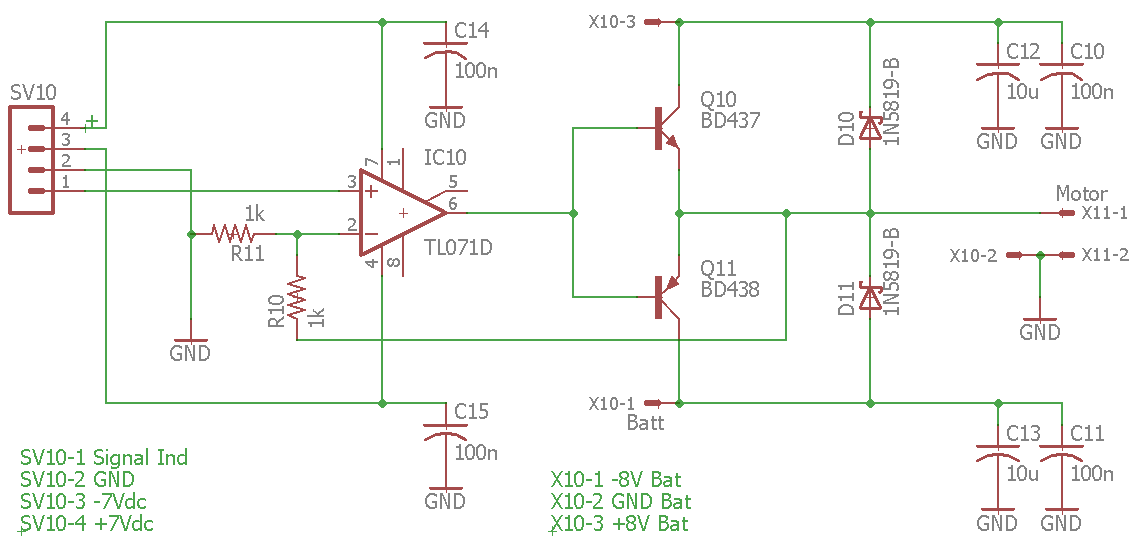
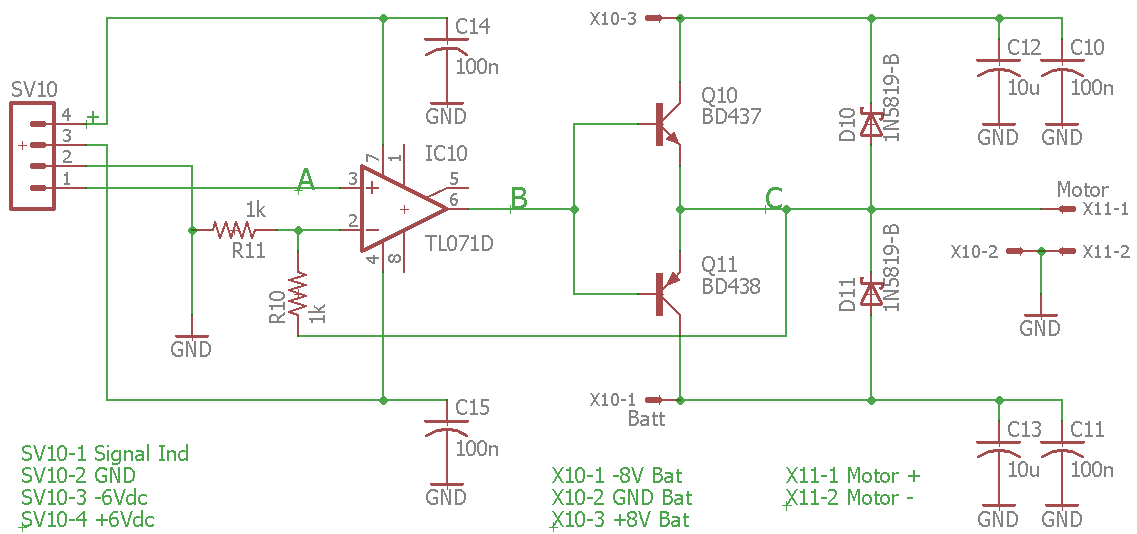
Motorstyring beskrevet færdigt.

diff --git a/section/motorstyring.tex b/section/motorstyring.tex
@@ -15,6 +15,7 @@ I figur \ref{fig:motor_diagram} ses det samlede kredsløb af motorreguleringen.
 I motorstyringen anvendes en simpel feedback regulering af strømmen igennem en NPN \emph{(Q10)} og PNP \emph{(Q11)} transistor, således at forholdet mellem indgangssignalet og udgangsstrømmen til motoren holdes konstant.
 Motorstyringen er opbygget som en såkaldt \textit{ Bi-directional DC motor driver} som gør det muligt at styre retningen af strømmen igennem motoren.
 Således vil et positivt styresignal åbne for strømmen fra $+8V Batt$ igennem NPN transistoren \emph{(Q10)} ud til motoren, og et negativt styresignal vil åbne for strømmen fra $GND$ igennem PNP transistoren \emph{(Q11)} til $-8V Batt$, se figur \ref{fig:motor_bidirectional}.
+\husk{JJ}{BJT valg, ref til datablad, og vigtige data som ligger til gunde for valg}
 
 \begin{figure}[h!]
 	\centering
@@ -24,16 +25,32 @@ Således vil et positivt styresignal åbne for strømmen fra $+8V Batt$ igennem 
 \end{figure}
 \FloatBlock
 
-For at håndtere de transiente spændings udslag der måtte komme fra motor, idet den som spole er en induktiv belastning på udgangen, er der i kredsløbet anbragt to såkalde \textit{flyback} eller friløbs dioder \emph{(D10)} og \emph{(D11)}.
-Det er valgt at bruge en \textit{Schottky} \emph{1N5819} diode, da denne har et lavere spændingsfald og en hurtigere \textit{reverse recovery}.
-
+For at håndtere de transiente spændingsudslag der måtte komme fra motor, idet den som spole er en induktiv belastning på udgangen.
+Er der i kredsløbet anbragt to såkaldte \textit{flyback} eller friløbs dioder \emph{(D10)} og \emph{(D11)}.
+Det er valgt at bruge en \textit{Schottky} \emph{1N5819}\cite{1N5819} diode, da denne har et lavere spændingsfald og en hurtigere \textit{reverse recovery}.
 
 \subsection{Beregninger og dimensionering}
+Da der i motorstyringen anvendes negativ feedback, kan dette bruges som udgangspunkt til at beregne forholdet mellem indgangssignalet til styringen og hvor stor strøm der kommer til at løbe igennem motoren.
+Hvis der på indgang af motorstyringen, se figur \ref{fig:motor_diagram} punkt A, komme $+5 \si{\volt}$, vil op-amp'en (\emph{IC10}) gøre det den kan for at opnå at feedback signalet på dens negative indgang bliver lige så stort.
+Det vil således betyde, at spændingen i punkt C vil være
+\begin{align}
+V_C = V_A \frac{R_{10}+R_{11}}{R_{11}} = 2V_A
+\end{align}
+Når motorens egenmodstand, der er målt til $R_{motor} = 3,2 \si{\ohm}$, kan strømmen igennem motoren kan således beregnes til maksimal
+\begin{align}
+I_{motor} =  \frac{2V_A}{R_{motor}} = \frac{10\si{\volt}}{3,2\si{\ohm}} = 3,125\si{\ampere} \label{eq:motor_VI}
+\end{align}
+Det er dog ikke muligt at opnå en spænding i punkt C på $V_C = 10\si{\volt}$, da forsyningen til motorstyringen kun er på $\pm 8 \si{\volt}$.
+Der er også andre faktorer der begrænser spændingen i punkt C og derved giver en mindre strøm igennem motoren.
+Forholdet i ligning \ref{eq:motor_VI}, vil dog an vendes til at beskrive motorstyringens dynamic
+\begin{align}
+H_{motor styring}(s) = \frac{V(s)}{I(s)} =\frac{R_{motor}}{2} = \frac{3,2}{2} = 1,6 \label{eq:motor_styr_trans}
+\end{align}   
 
-
-\husk{JJ}{beregninger af forhold mellem spænding og strøm i regulatoren}
-\husk{JJ}{PSpice simulering af regulator}
-
+Under forsøg med den forover beskrevne motorstyring, viste det sig, at det ikke var muligt at få den strømstyrke ud til motoren som forventet.
+Forsyningen til motorstyringen, blev derfor udskiftet med 2 stk. 9V batterier, således at \emph{(IC10)} blev forsynet med en højere spænding.
+Med denne forbedring var det muligt at få en højere gate spænding på transistorne, og derved en højre $I_C$ strøm igennem dem.
+ 
 \subsection{Overførelsesfunktion af motor}
 For at bestemme dynamikken af DC-motoren opstilles en forenklet model af motoren.
 

diff --git a/section/penduloverforelse.tex b/section/penduloverforelse.tex
@@ -34,5 +34,3 @@ Den eneste tilbageblivende masse, er for forstyrrelsen på pendulstangen, der en
 \end{figure}
 \FloatBlock 
 Således endes der med en model (figur \ref{fig:pendul_trans_clean}) af pendulet, der relaterer en påført acceleration $A_v(s)$ til en ændring af vinklen $\theta(s)$
-
-\husk{JJ}{kort hvor polerne ligger og at systemet er grundlæggende ustabilt, måske hvilken indvirkning L har, som den eneste variabel der kan ændres her.}
